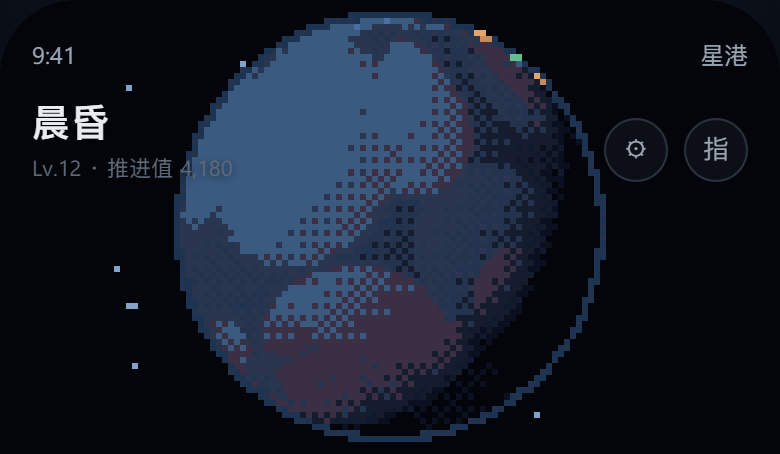
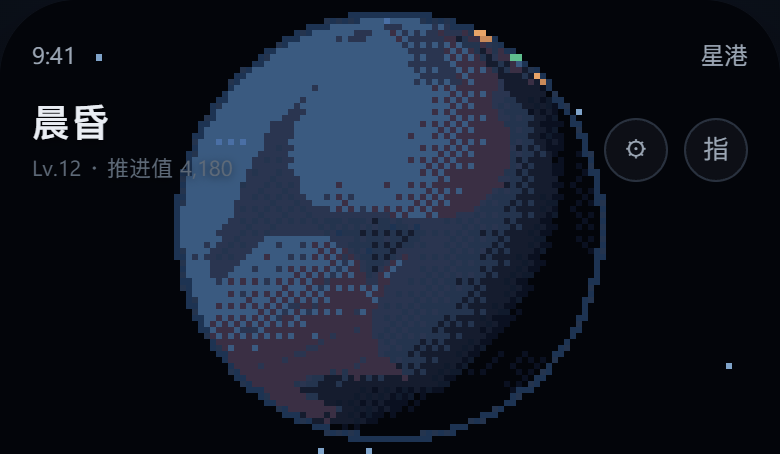
fix(星港计划): 默认像素档改为块3px（键3）；聚焦横向拖动反转
按反馈两处调整。

① 像素档位：默认改成「2 键」当初的效果，并把键位改成不再错位
根因是键位号与像素边长不是一回事：
  PX_LEVELS = [0,2,3,4,6] + PX_LEVELS[+k]
  → 按 1 取到边长 2、按 2 取到边长 3、按 3 取到 4、按 4 取到 6
而默认 let pxSize = 2 其实对应的是「1 键」。用户实机调试认为「2 键」
（=边长 3）视觉最好，所以：
- 默认 let pxSize = 3（网格 260×151，每格 1.5 CSS px）
- 键位改为直接等于边长：2/3/4/6，不再用序号映射，以后不会记混
- 面板标签改成「键3 · 块3px · 260×151 格 · 3.00× · 16 色」，一眼可对
- PX_LEVELS = [2,3,4,6]

档位对照（视口 390×227，渲染倍率固定 2× → 画布 780×454）：
  键2 边长2 → 390×227 格（1.0 CSS px/格，最细）
  键3 边长3 → 260×151 格（1.5）  ← 默认
  键4 边长4 → 195×113 格（2.0）
  键6 边长6 → 130×75  格（3.0，最粗）
四档都能被 780/454 整除，块边均匀。

② 聚焦横向拖动反转：S.fAz += → -=
现在手指右移 → 画面左移（"转动视角"的手感），纵向不变。

判定方向时踩了一个坑（已写进 18 章）：
第一版探针取了离枢轴 3° 的地表点，测出的斜率只有 19 px/rad ——
因为该点几乎在旋转轴上，相机绕它转时它的屏幕位置按 0.052·cosφ 振荡，
不扫过。换成远处地标（半径 15）后斜率是 +370 px/rad，方向才测得准。

实测
- 键位→网格一一对应：2→390×227 / 3→260×151 / 4→195×113 / 6→130×75 ✓
- 默认档 260×151，面板标签正确 ✓
- 聚焦横拖 140px：fAz Δ=-1.120 ✓（右移 → 减小）
- 纵向未受影响：往下拖 θ 68.6°→41.0° ✓
- 动画质量未回归：平滑后峰值/平均 1.692 / 1.716（理论 1.724）✓
- 全景交互 8 项 + 聚焦取景 ✓；无页面异常
- 四个档位纯三维区板内率均 100.00%

截图：04 改为默认档（块3）；06 改为块 2/4/6px；总览与 README 同步
文档：17 章档位表与实测表、18 章 §5.5 方向说明（含探针踩坑）、截图 README

diff --git a/星港计划-星际探索任务APP/demo/主页面三维演示.html b/星港计划-星际探索任务APP/demo/主页面三维演示.html
@@ -140,7 +140,7 @@
   <div class="r"><span>DPR / 倍率</span><span id="d-dpr">—</span></div>
   <div class="r"><span>WebGPU</span><span id="d-gpu">—</span></div>
   <div class="r"><span>GPU</span><span id="d-glr" style="font-size:10px;max-width:150px;text-align:right">—</span></div>
-  <div class="tip">拖拽旋转 · 双指缩放 · 点建筑聚焦 · Esc 退出<br>F 全屏 · P 像素化 · 1/2/3/4 像素尺寸<br>
+  <div class="tip">拖拽旋转 · 双指缩放 · 点建筑聚焦 · Esc 退出<br>F 全屏 · P 像素化 · 2/3/4/6 像素边长<br>
     W 试切 WebGPU（切后像素化暂停，见 15 章说明）<br>这些数字可直接放答辩 PPT：帧率与首帧都是实测值。</div>
 </div>
 
@@ -778,15 +778,22 @@ const paletteVec3 = PALETTE_SRGB.map(h => new THREE.Vector3(
   (h & 255) / 255
 ));
 
-/* 虚拟分辨率档位：大像素边长（设备像素）。0 = 关闭。
-   358×180 视口、渲染倍率 2x → 画布 716×360。
-   ×2 → 358×180 格（等于 1 CSS px / 格，最细）
-   ×3 → 238×120 格
-   ×4 → 179×90 格
-   ×6 → 119×60 格
-   默认 ×2：块只有 1 CSS px，看起来是"细腻的像素感"而不是马赛克。 */
-const PX_LEVELS = [0, 2, 3, 4, 6];
-let pxSize = 2;
+/* ── 虚拟分辨率档位 ──────────────────────────────────────────────
+   pxSize = 一个大像素占多少**设备像素**。
+   视口 390×227、渲染倍率固定 2× → 画布 780×454 设备像素，格数 = floor(780/px)：
+
+     键位   pxSize   网格        每格 CSS px   观感
+      2      2      390×227        1.0        最细，"细腻像素感"
+      3      3      260×151        1.5        ← 本页默认（实机调试视觉最好）
+      4      4      195×113        2.0
+      6      6      130×75         3.0        最粗
+
+   ⚠ 键位直接等于 pxSize，不再用"第 N 档"的序号映射。
+     旧写法是 `PX_LEVELS = [0,2,3,4,6]` + `PX_LEVELS[+k]`，
+     于是"按 2"其实取到 pxSize=3 —— 键位号和像素边长对不上，极易记混。
+     现在按 3 就是 pxSize=3。 */
+const PX_LEVELS = [2, 3, 4, 6];
+let pxSize = 3;
 let pixelOn = true;
 
 /* 全屏后处理：无需 EffectComposer，自己搭一个正交相机 + 全屏四边形 */
@@ -891,7 +898,9 @@ function updatePxLabel(dw, dh){
     $('d-px').className = '';
   } else {
     const scale = dw ? (dw / vGridW) : pxSize;
-    $('d-px').textContent = `${vGridW}×${vGridH} 格 · 放大 ×${scale.toFixed(2)} · ${PAL_N} 色`;
+    // 直接把「键位 / 像素边长 / 网格」并排写出来，免得再对照文档
+    $('d-px').textContent =
+      `键${pxSize} · 块${pxSize}px · ${vGridW}×${vGridH} 格 · ${scale.toFixed(2)}× · ${PAL_N} 色`;
     $('d-px').className = 'ok';
   }
 }
@@ -1034,7 +1043,8 @@ addEventListener('keydown', e => {
   if (k === 'escape' || k === 'v') { goGlobe(); }
   // 像素化：P 开关，1/2/3/4 切档（大像素边长，设备像素）
   if (k === 'p') { setPixel(!pixelOn); }
-  if ('1234'.includes(k)) { setPixel(true, PX_LEVELS[+k]); }
+  // 键位 = 像素边长本身（2/3/4/6），不再错位
+  if ('2346'.includes(k)) { setPixel(true, +k); }
 });
 addEventListener('resize', () => { layoutPixels(); });
 
@@ -1181,9 +1191,15 @@ el.addEventListener('pointermove', e => {
     /* 以建筑为中心环绕：
          横向 → 方位角（绕法线转，建筑始终在画面中央）
          纵向 → 极角（往下拖 = 相机升高 = 更俯视）
+       横向用 **减**：手指右移 → fAz 减小 → 画面内容往左移。
+        （实机调试后按反馈反转的。原先用加号时是"内容跟着手指走"，
+          现在的手感更接近"转动视角"——像转头看，而不是拖拽物体。
+          实测：远处地标的屏幕 x 对 fAz 的斜率是 +370 px/rad，
+          所以 fAz 减小时地标确凿地往左走。）
+       纵向手指下移 → 相机升高（更俯视），与 globe 模式一致。
        极角的夹取在 focusTargets 里做（那里才知道当前半径 r），
        拖过头不会再累积，松手反向立刻响应。 */
-    S.fAz += dx * 0.008;
+    S.fAz -= dx * 0.008;
     S.fPol -= dy * 0.004;
   }
 });

diff --git a/星港计划-星际探索任务APP/design/三维截图/README.md b/星港计划-星际探索任务APP/design/三维截图/README.md
@@ -33,10 +33,12 @@
 | `01-主界面-计划@3x.png` | 1170×2532 | 印刷 / 高倍屏 |
 | `02-主界面-任务@2x.png` / `@3x` | 同上 | 「任务」标签 |
 | `03-主界面-基地@2x.png` / `@3x` | 同上 | 「基地」标签 |
-| `04-三维视窗-像素化开-780x454.png` | 780×454 | **三维区原生分辨率**（默认 ×2 档，globe 全景） |
+| `04-三维视窗-像素化开-780x454.png` | 780×454 | **三维区原生分辨率**（默认档：键 3 / 块 3px / 260×151 格，globe 全景） |
 | `04-三维视窗-像素化开-1560x908.png` | 1560×908 | 2× 最近邻放大，像素块锐利 |
 | `05-三维视窗-像素化关-*.png` | 780×454 / 1560×908 | 关闭像素化（对照） |
-| `06-三维视窗-像素化档位x3/x4/x6.png` | 780×454 | 块 3 / 4 / 6 px |
+| `06-三维视窗-像素化档位x2.png` | 780×454 | 块 2px（最细，390×227 格） |
+| `06-三维视窗-像素化档位x4.png` | 780×454 | 块 4px（195×113 格） |
+| `06-三维视窗-像素化档位x6.png` | 780×454 | 块 6px（130×75 格，最粗） |
 | `07-主界面-计划@2x-透明底.png` | 780×1688 RGBA | 透明底，可叠任意背景 |
 | **`08-三维视窗-聚焦地平线-780x454.png`** | 780×454 | **聚焦态 home 机位**：天空 35.9%、建筑在下三分之一 |
 | **`08-...-1560x908.png`** | 1560×908 | 同上 2× 近邻放大 |
@@ -83,10 +85,10 @@
 
 聚焦后还可以**绕建筑环绕**：
 
-| 方向 | 系数 | 满屏拖动 |
-|---|---|---|
-| 横向 dx → 方位角 | ×0.008 | 390px ≈ 179° |
-| 纵向 dy → 极角 | ×0.004 | 往下拖 = 相机升高 = 更俯视 |
+| 方向 | 系数 | 满屏拖动 | 手感 |
+|---|---|---|---|
+| 横向 dx → 方位角 | **−**×0.008 | 390px ≈ 179° | 手指右移 → 画面左移（转动视角） |
+| 纵向 dy → 极角 | ×0.004 | 往下拖 = 相机升高 = 更俯视 | 与全景一致 |
 
 ### 4.3 过渡（点建筑 → 飞过去）
 
@@ -122,6 +124,18 @@
 
 ## 五、像素规格（设计稿必须知道）
 
+### 5.0 像素档位对照
+
+| 键 | 块（设备 px） | 网格 | 每格 CSS px |
+|---|---|---|---|
+| `2` | 2 | 390×227 | 1.0 |
+| **`3`** | **3** | **260×151** | **1.5** ← 默认 |
+| `4` | 4 | 195×113 | 2.0 |
+| `6` | 6 | 130×75 | 3.0 |
+
+> 键位 = 像素边长本身。早期版本用 `PX_LEVELS[+k]` 错位映射，
+> 按 `2` 实际取到边长 3，已废弃。
+
 ### 5.1 只在整数倍缩放下纯净
 
 | 放置方式 | 结果 |
@@ -137,12 +151,14 @@
 
 | 文件 | 色数 | 板内率 | 天空 |
 |---|---|---|---|
-| `04` globe 像素化开 | 1,013 | 94.86% | 59.1% |
-| `08` focus home | 760 | 95.01% | 35.9% |
-| `09` focus 环绕 | 749 | 95.10% | 36.6% |
-| `10` focus 俯视 | 1,399 | 93.96% | 0.0% |
-| `06` ×3 / ×4 / ×6 | 1,014 / 1,009 / 1,010 | 94.86–94.87% | 58.4–58.7% |
-| `05` 关闭像素化 | 9,561 | 0.01% | 0% |
+| `04` globe 默认档 3px | 1,019 | 94.87% | 59.1% |
+| `08` focus home | 776 | 95.01% | 35.8% |
+| `09` focus 环绕 | 762 | 95.09% | 36.3% |
+| `10` focus 俯视 | 1,499 | 93.90% | 0.0% |
+| `06` 块 2 / 4 / 6px | 1,018 / 1,009 / 1,010 | 94.86–94.87% | 58.5–58.8% |
+| `05` 关闭像素化 | 9,287 | 0.02% | 0% |
+
+**纯三维区（无 UI 覆盖部分）板内率：四个档位都是 100.00%。**
 
 > **为什么不是 100%**：三维区改成满幅后，状态栏和标题浮层压在画布上，文字抗锯齿会产生
 > 板外过渡色。纯三维区（无 UI 覆盖的部分）实测 100.00%，全图 94.86%。

diff --git a/星港计划-星际探索任务APP/18-三维交互与相机系统.md b/星港计划-星际探索任务APP/18-三维交互与相机系统.md
@@ -388,8 +388,23 @@ S.dist = clamp(初始距离 * k, min, max)
 
 | 方向 | 量 | 系数 | 满屏拖动的效果 |
 |---|---|---|---|
-| 横向 dx | `S.fAz`（方位角） | ×0.008 | 390px ≈ 3.12 rad ≈ 179° |
+| 横向 dx | `S.fAz`（方位角） | **−**×0.008 | 390px ≈ 3.12 rad ≈ 179° |
 | 纵向 dy | `S.fPol`（极角） | ×0.004 | 往下拖 = 相机升高 = 更俯视 |
+
+**横向取负号是实机调试后按反馈改的。** 两种手感对应不同的符号：
+
+| 符号 | 手指右移时 | 手感 |
+|---|---|---|
+| `fAz +=`（旧） | 画面内容右移 | "拖拽物体"——内容跟着手指 |
+| **`fAz -=`（当前）** | 画面内容左移 | **"转动视角"——像转头看** |
+
+判定用的不是"看起来对不对"，而是量**远处地标屏幕 x 对 fAz 的斜率**：
+实测 **+370 px/rad**（fAz 增大 → 地标右移），所以 `fAz` 减小时地标确凿地往左走。
+
+> ⚠ **测方向不能用地表近点当参照**。第一版探针取了离枢轴 3° 的地表点，
+> 测出的斜率只有 19 px/rad —— 因为该点几乎在旋转轴上，
+> 相机绕它转时它的屏幕位置按 `0.052·cos φ` 振荡，而不是扫过。
+> 必须用远处的参照物（半径 15 的点或背景星），屏幕位移才直接反映相机转动。
 
 纵向方向与 globe 保持一致：两个模式下"往下拖"都是"相机升高"。
 
